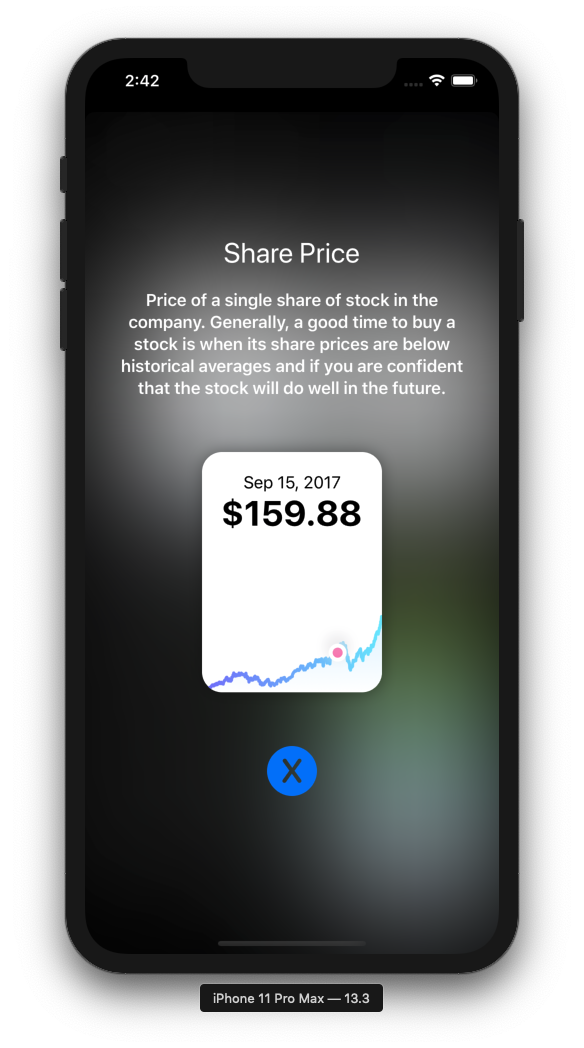
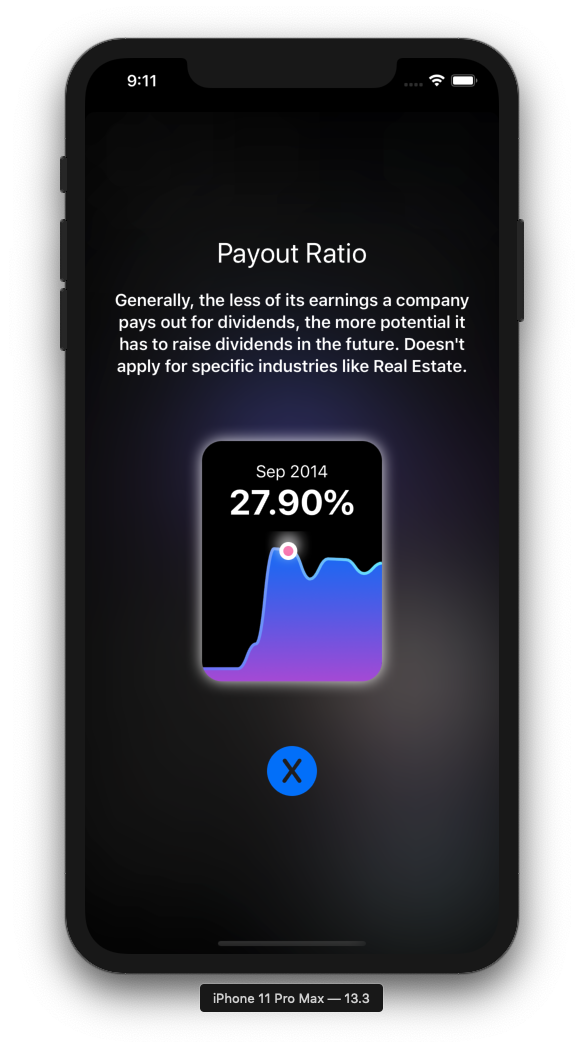
Change some colors. Added dark mode support for the detail attribute charts. Also updated the bar chart in income view with a new style

diff --git a/Dividend App/Graphs/BarChart/BarChartView.swift b/Dividend App/Graphs/BarChart/BarChartView.swift
@@ -33,7 +33,7 @@ public struct BarChartView : View {
     var isFullWidth:Bool {
         return self.formSize == ChartForm.large
     }
-    public init(records: [Record], data: [Double], title: String, detailPrefix: String = "", detailSuffix: String = "", legend: String? = nil, style: ChartStyle = Styles.barChartStyleOrangeLight, form: CGSize? = ChartForm.medium, dropShadow: Bool? = true){
+    public init(records: [Record], data: [Double], title: String, detailPrefix: String = "", detailSuffix: String = "", legend: String? = nil, style: ChartStyle = Styles.barChartStyleOrangeDark, form: CGSize? = ChartForm.medium, dropShadow: Bool? = true){
         self.data = ChartData(records: records, points: data)
         self.title = title
         self.legend = legend
@@ -56,7 +56,7 @@ public struct BarChartView : View {
                             .fontWeight(.bold)
                             .foregroundColor(self.style.textColor)
                     }else{
-                        Text("\(self.currentRecord.month) \(self.currentRecord.year) - $\(self.currentValue, specifier: "%.2f")")
+                        Text("$\(self.currentValue, specifier: "%.2f")")
                             .font(.system(size: 20))
                             .fontWeight(.bold)
                             .foregroundColor(self.style.textColor)
@@ -85,6 +85,10 @@ public struct BarChartView : View {
                     }
                 }.padding()
                 BarChartRow(data: data.points, accentColor: self.style.accentColor, secondGradientAccentColor: self.style.secondGradientColor, touchLocation: self.$touchLocation)
+                
+                if showValue {
+                    LabelView(arrowOffset: self.getArrowOffset(touchLocation: self.touchLocation), record: .constant(self.getCurrentRecord())).offset(x: self.getLabelViewOffset(touchLocation: self.touchLocation), y: -6)
+                }
             }
         }.frame(minWidth:self.formSize.width, maxWidth: self.isFullWidth ? .infinity : self.formSize.width, minHeight:self.formSize.height, maxHeight:self.formSize.height)
             .gesture(DragGesture()
@@ -101,6 +105,21 @@ public struct BarChartView : View {
         )
             .gesture(TapGesture()
         )
+    }
+    
+    func getArrowOffset(touchLocation:CGFloat) -> Binding<CGFloat> {
+        let realLoc = (self.touchLocation * self.formSize.width) - 50
+        if realLoc < 10 {
+            return .constant(realLoc - 10)
+        }else if realLoc > self.formSize.width-110 {
+            return .constant((self.formSize.width-110 - realLoc) * -1)
+        } else {
+            return .constant(0)
+        }
+    }
+    
+    func getLabelViewOffset(touchLocation:CGFloat) -> CGFloat {
+        return min(self.formSize.width-110,max(10,(self.touchLocation * self.formSize.width) - 50))
     }
     
     func getCurrentRecord()-> Record {

diff --git a/Dividend App/Graphs/BarChart/LabelView.swift b/Dividend App/Graphs/BarChart/LabelView.swift
@@ -1,0 +1,46 @@
+//
+//  LabelView.swift
+//  BarChart
+//
+//  Created by Samu András on 2020. 01. 08..
+//  Copyright © 2020. Samu András. All rights reserved.
+//
+
+import SwiftUI
+
+struct LabelView: View {
+    @Binding var arrowOffset: CGFloat
+    @Binding var record: Record
+    var body: some View {
+        VStack{
+            ArrowUp().fill(Colors.OrangeStart).frame(width: 20, height: 12, alignment: .center).shadow(color: Color.gray, radius: 8, x: 0, y: 0).offset(x: getArrowOffset(offset:self.arrowOffset), y: 12)
+            ZStack{
+                RoundedRectangle(cornerRadius: 8).frame(width: 100, height: 32, alignment: .center).foregroundColor(Colors.OrangeStart).shadow(radius: 8)
+                Text("\(self.record.month) \(self.record.year)").font(.caption).bold().foregroundColor(Color.white)
+                ArrowUp().fill(Colors.OrangeStart).frame(width: 20, height: 12, alignment: .center).zIndex(999).offset(x: getArrowOffset(offset:self.arrowOffset), y: -20)
+
+            }
+        }
+    }
+    
+    func getArrowOffset(offset: CGFloat) -> CGFloat {
+        return max(-36,min(36, offset))
+    }
+}
+
+struct ArrowUp: Shape {
+    func path(in rect: CGRect) -> Path {
+        var path = Path()
+        path.move(to: CGPoint(x: 0, y: rect.height))
+        path.addLine(to: CGPoint(x: rect.width/2, y: 0))
+        path.addLine(to: CGPoint(x: rect.width, y: rect.height))
+        path.closeSubpath()
+        return path
+    }
+}
+
+struct LabelView_Previews: PreviewProvider {
+    static var previews: some View {
+        LabelView(arrowOffset: .constant(0), record: .constant(.mock))
+    }
+}

diff --git a/Dividend App/Graphs/LineChart/LineChartView.swift b/Dividend App/Graphs/LineChart/LineChartView.swift
@@ -52,7 +52,7 @@ public struct LineChartView: View {
     
     public var body: some View {
         ZStack(alignment: .center){
-            RoundedRectangle(cornerRadius: 20).fill(self.style.backgroundColor).frame(width: frame.width, height: 240, alignment: .center).shadow(radius: self.dropShadow ? 8 : 0)
+            RoundedRectangle(cornerRadius: 20).fill(self.style.backgroundColor).frame(width: frame.width, height: 240, alignment: .center).shadow(color: .white, radius: self.dropShadow ? 8 : 0)
             VStack(alignment: .leading){
                 if(!self.showIndicatorDot){
                     VStack(alignment: .leading, spacing: 8){

diff --git a/Dividend App/Features/Portfolio/Details/CurrentDetailStockRow.swift b/Dividend App/Features/Portfolio/Details/CurrentDetailStockRow.swift
@@ -22,7 +22,8 @@ struct CurrentDetailStockRow: View {
                                 HStack {
                                     Text("\(self.attributeNames[i*3 + j])")
                                         .font(.caption)
-                                        .foregroundColor(Color("textColor"))
+                                        .bold()
+                                        .foregroundColor(Color.gray)
                                     Spacer()
                                     
                                     self.getProperName(name: self.attributeNames[i*3 + j], value: value)
